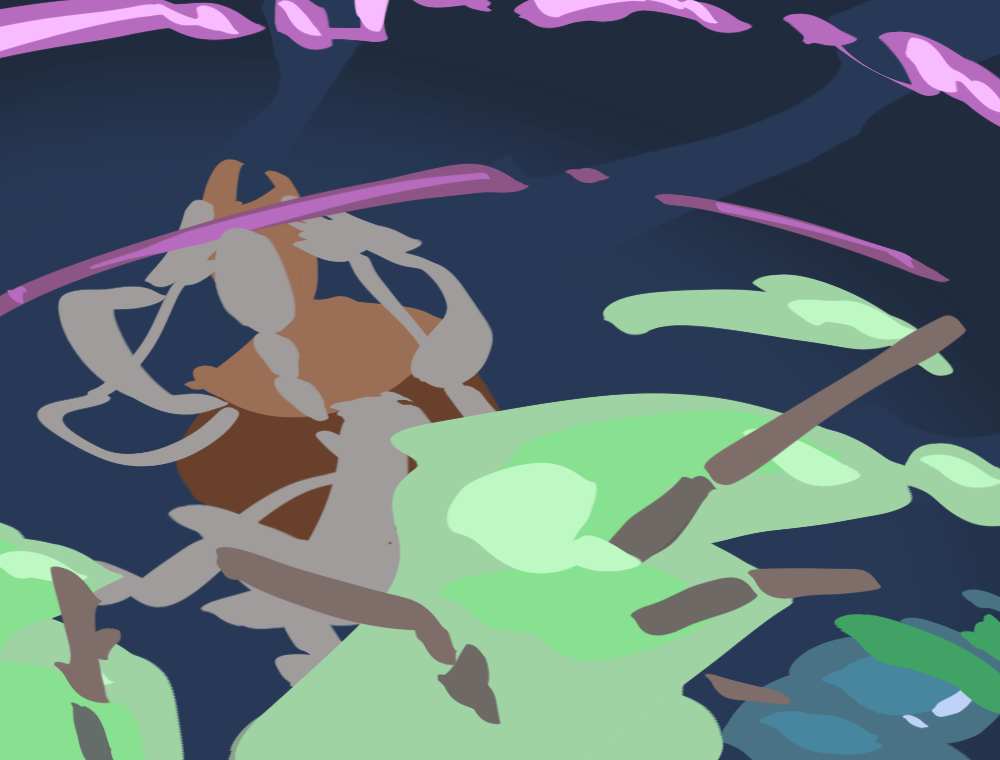
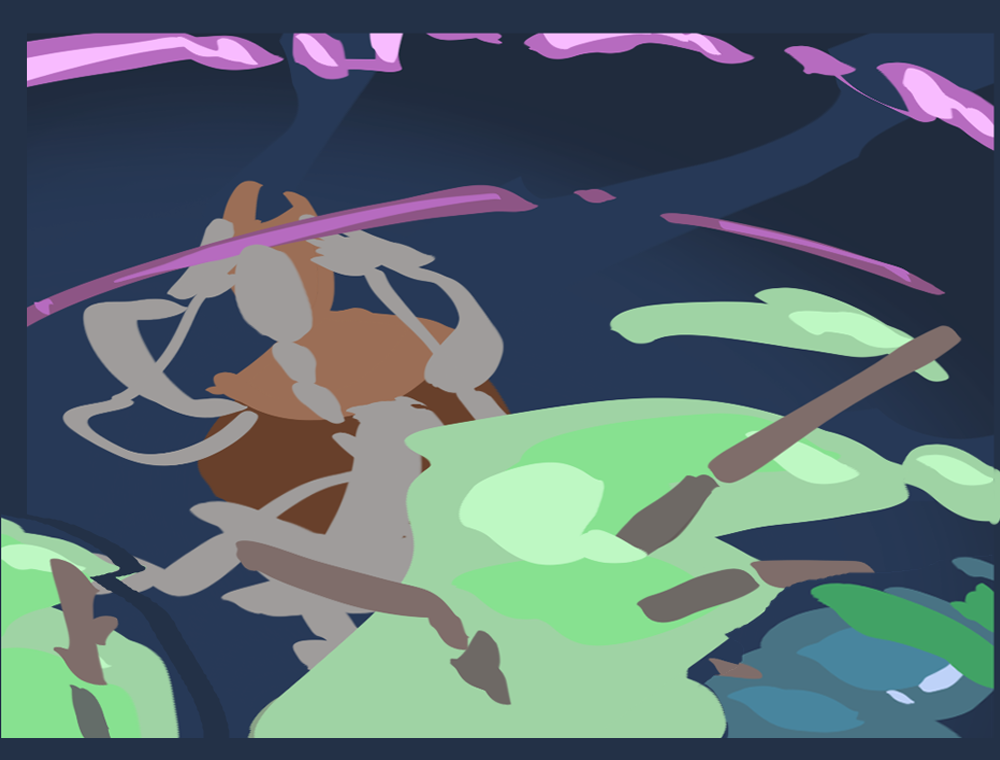
添加美术

diff --git a/Scripts/Cards/Infinite.cs b/Scripts/Cards/Infinite.cs
@@ -1,6 +1,7 @@
 using System.Collections.Generic;
 using System.Linq;
 using System.Threading.Tasks;
+using MegaCrit.Sts2.Core.CardSelection;
 using MegaCrit.Sts2.Core.Commands;
 using MegaCrit.Sts2.Core.Entities.Cards;
 using MegaCrit.Sts2.Core.GameActions.Multiplayer;
@@ -33,7 +34,7 @@ public sealed class Infinite : KnowledgeDemonCardModel
     protected override async Task OnPlay(PlayerChoiceContext choiceContext, CardPlay cardPlay)
     {
         var candidates = TransformOptionUtility
-            .GetAllCardsTransformCandidates(Owner, this)
+            .GetInfiniteTransformationStatusCandidates(Owner)
             .Select(card => Owner.RunState.CreateCard(card, Owner))
             .ToList();
 
@@ -42,13 +43,22 @@ public sealed class Infinite : KnowledgeDemonCardModel
             return;
         }
 
-        var chosen = await CardSelectCmd.FromChooseACardScreen(choiceContext, candidates, Owner, canSkip: false);
+        var chosen = (await CardSelectCmd.FromSimpleGrid(
+                choiceContext,
+                candidates,
+                Owner,
+                new CardSelectorPrefs(CardSelectorPrefs.TransformSelectionPrompt, 1)))
+            .FirstOrDefault();
         if (chosen is null)
         {
             return;
         }
 
         var replacement = chosen.CreateClone();
-        await CardCmd.Transform(this, replacement, CardPreviewStyle.HorizontalLayout);
+        var transformed = await CardCmd.Transform(this, replacement, CardPreviewStyle.HorizontalLayout);
+        if (transformed?.cardAdded is { } transformedCard)
+        {
+            await CardPileCmd.Add(transformedCard, PileType.Hand);
+        }
     }
 }

diff --git a/Scripts/Powers/RelativityPower.cs b/Scripts/Powers/RelativityPower.cs
@@ -76,6 +76,18 @@ internal static class RelativityPowerShared
 {
     internal static readonly LocString Title = new("powers", "KNOWLEDGE_DEMON_POWER_RELATIVITY_POWER.title");
 
+    internal static async Task RecordCardsWithDelayAsync(
+        PlayerChoiceContext choiceContext,
+        Player player,
+        IReadOnlyList<CardModel> cards)
+    {
+        foreach (var card in cards)
+        {
+            await Cmd.CustomScaledWait(0.1f, 0.1f);
+            await BookLibraryCmd.RecordToLibrary(choiceContext, player, card, 1);
+        }
+    }
+
     internal static async Task RecordAndMaterializeAsync(
         PlayerChoiceContext choiceContext,
         Player player,
@@ -108,13 +120,13 @@ internal static class RelativityPowerShared
             return;
         }
 
-        foreach (var template in selected)
-        {
-            var record = player.RunState.CreateCard(template, player);
-            await BookLibraryCmd.RecordToLibrary(choiceContext, player, record, 1);
-        }
+        var records = selected
+            .Select(template => player.RunState.CreateCard(template, player))
+            .ToList();
 
-        await Cmd.CustomScaledWait(0.25f, 0.45f);
+        await RecordCardsWithDelayAsync(choiceContext, player, records);
+
+        await Cmd.CustomScaledWait(0.5f, 0.5f);
 
         await BookLibraryCmd.MaterializeFromLibraryToHand(
             choiceContext,

diff --git a/Scripts/KnowledgeDemon.cs b/Scripts/KnowledgeDemon.cs
@@ -51,9 +51,9 @@ public class KnowledgeDemon : ModCharacterTemplate<KnowledgeDemonCardPool, Knowl
                 IconTexturePath: "res://KnowledgeDemon/images/charui/knowledge_demon_boss.png",
                 IconOutlineTexturePath: "res://KnowledgeDemon/images/charui/knowledge_demon_boss_outline.png",
                 // 游戏左上角头像、角色统计页头像、每日挑战角色头像。这个是场景而不是图片。参考下方附赠资源搭建。
-                IconPath: "res://KnowledgeDemon/scenes/knowledge_demon_icon.tscn"
+                IconPath: "res://KnowledgeDemon/scenes/knowledge_demon_icon.tscn",
                 // 人物选择背景。
-                //CharacterSelectBgPath: "res://Test/scenes/test_bg.tscn",
+                CharacterSelectBgPath: "res://KnowledgeDemon/scenes/char_select_bg_knowledge_demon.tscn"
                 // 人物选择图标。
                 //CharacterSelectIconPath: "res://Test/images/char_select_test.png",
                 // 人物选择图标-锁定状态。

diff --git a/Scripts/Powers/LocustIncursionUpgradedPower.cs b/Scripts/Powers/LocustIncursionUpgradedPower.cs
@@ -29,13 +29,20 @@ public sealed class LocustIncursionUpgradedPower : KnowledgeDemonPowerModel
         }
 
         Flash();
-        var card = player.RunState.CreateCard<LocustIncursion>(player);
-        if (!card.IsUpgraded)
-        {
-            CardCmd.Upgrade(card);
-        }
+        var records = Enumerable.Range(0, (int)System.Math.Max(1m, Amount))
+            .Select(_ =>
+            {
+                var card = player.RunState.CreateCard<LocustIncursion>(player);
+                if (!card.IsUpgraded)
+                {
+                    CardCmd.Upgrade(card);
+                }
 
-        await BookLibraryCmd.RecordToLibrary(choiceContext, player, card, Amount);
+                return card;
+            })
+            .ToList();
+        await RelativityPowerShared.RecordCardsWithDelayAsync(choiceContext, player, records);
+        await Cmd.CustomScaledWait(0.5f, 0.5f);
         await PowerCmd.Decrement(this);
     }
 }

diff --git a/Scripts/Unique/TransformOptionUtility.cs b/Scripts/Unique/TransformOptionUtility.cs
@@ -9,6 +9,19 @@ namespace ComicChess.KnowledgeDemon;
 
 internal static class TransformOptionUtility
 {
+    internal static IEnumerable<CardModel> GetInfiniteTransformationStatusCandidates(Player player)
+    {
+        return FilterForPlayerCount(
+                player.RunState,
+                ModelDb.CardPool<StatusCardPool>().GetUnlockedCards(
+                    player.UnlockState,
+                    player.RunState.CardMultiplayerConstraint)
+                    .Concat(GetKnowledgeDemonStatusPoolCards(player)))
+            .Where(card => card.Type == CardType.Status && !IsInfinite(card))
+            .GroupBy(card => card.Id)
+            .Select(group => group.First());
+    }
+
     internal static IEnumerable<CardModel> GetKnowledgeDemonStatusPoolCards(Player player)
     {
         return ModelDb.CardPool<KnowledgeDemonCardPool>()

diff --git a/Scripts/Powers/LocustIncursionPower.cs b/Scripts/Powers/LocustIncursionPower.cs
@@ -29,8 +29,12 @@ public sealed class LocustIncursionPower : KnowledgeDemonPowerModel
         }
 
         Flash();
-        var card = player.RunState.CreateCard<LocustIncursion>(player);
-        await BookLibraryCmd.RecordToLibrary(choiceContext, player, card, Amount);
+        var records = Enumerable
+            .Range(0, (int)System.Math.Max(1m, Amount))
+            .Select(_ => player.RunState.CreateCard<LocustIncursion>(player))
+            .ToList();
+        await RelativityPowerShared.RecordCardsWithDelayAsync(choiceContext, player, records);
+        await Cmd.CustomScaledWait(0.5f, 0.5f);
         await PowerCmd.Decrement(this);
     }
 }
